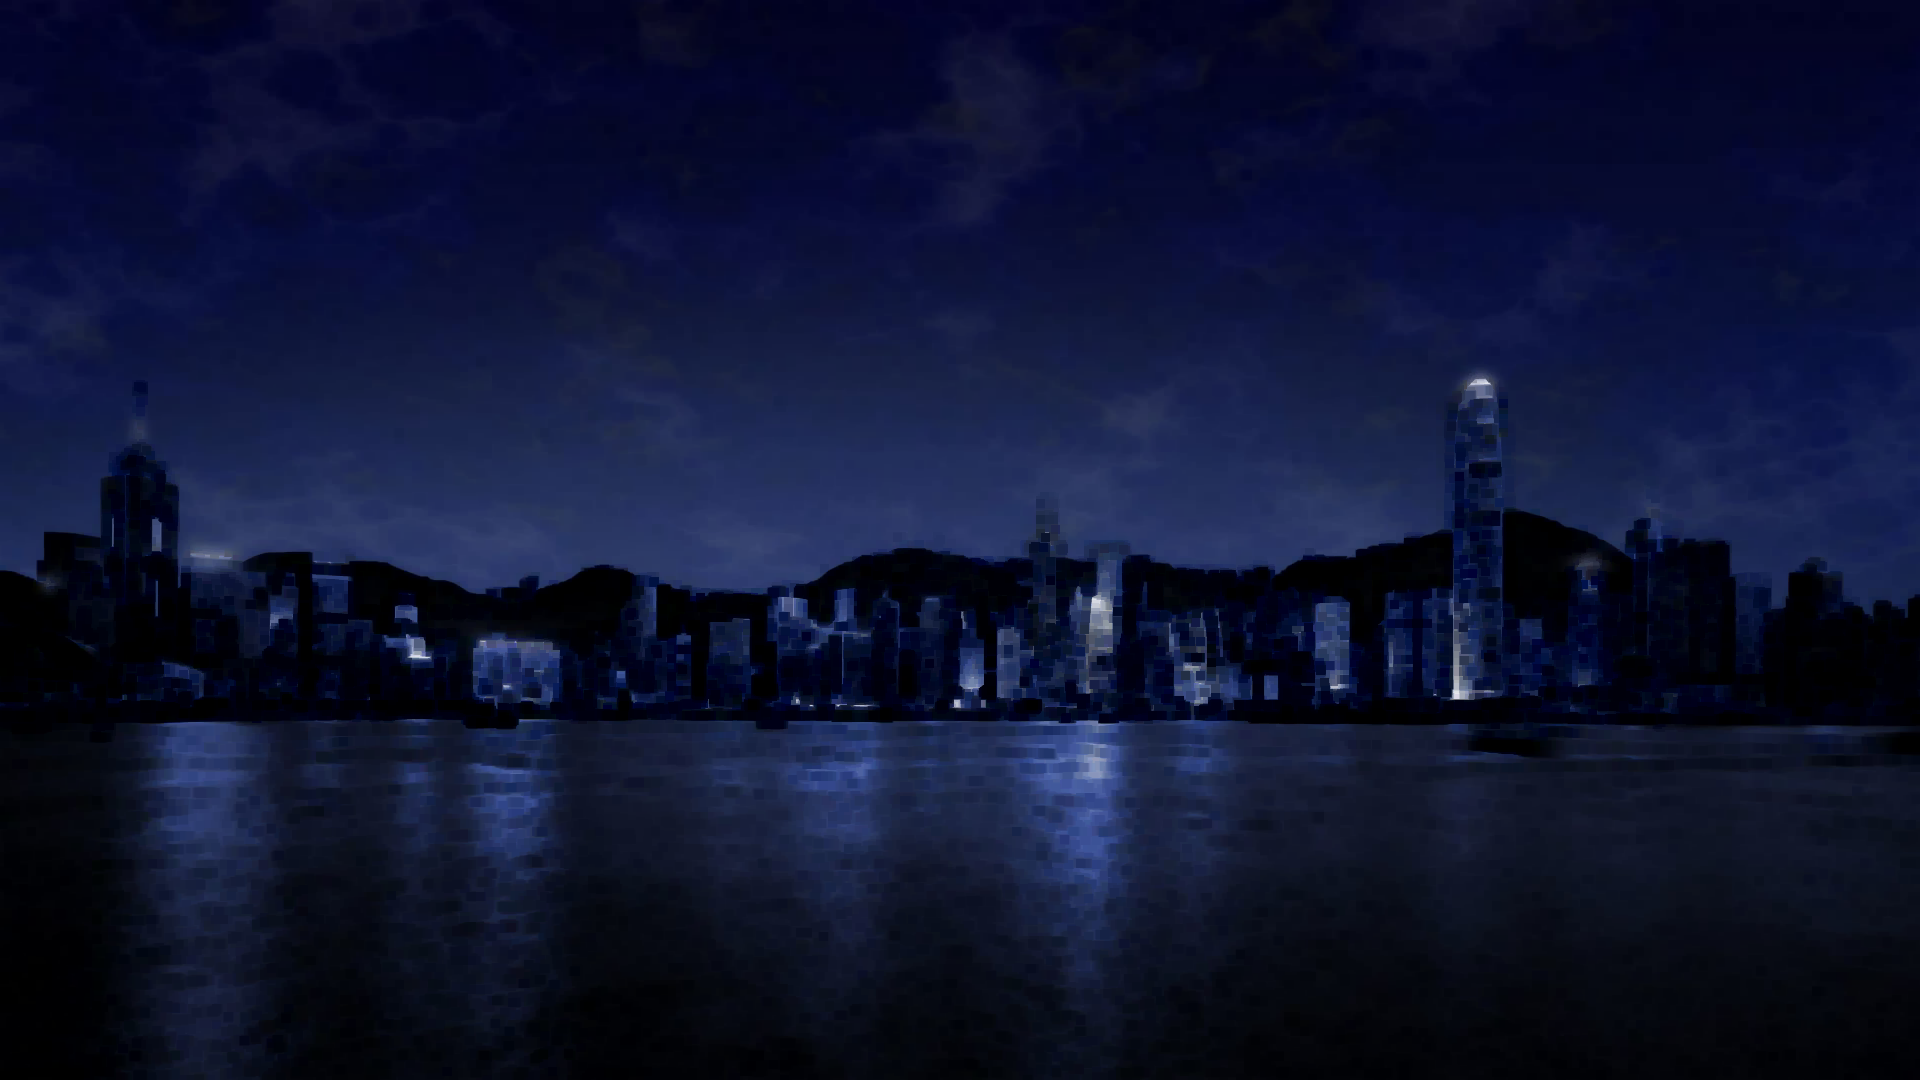
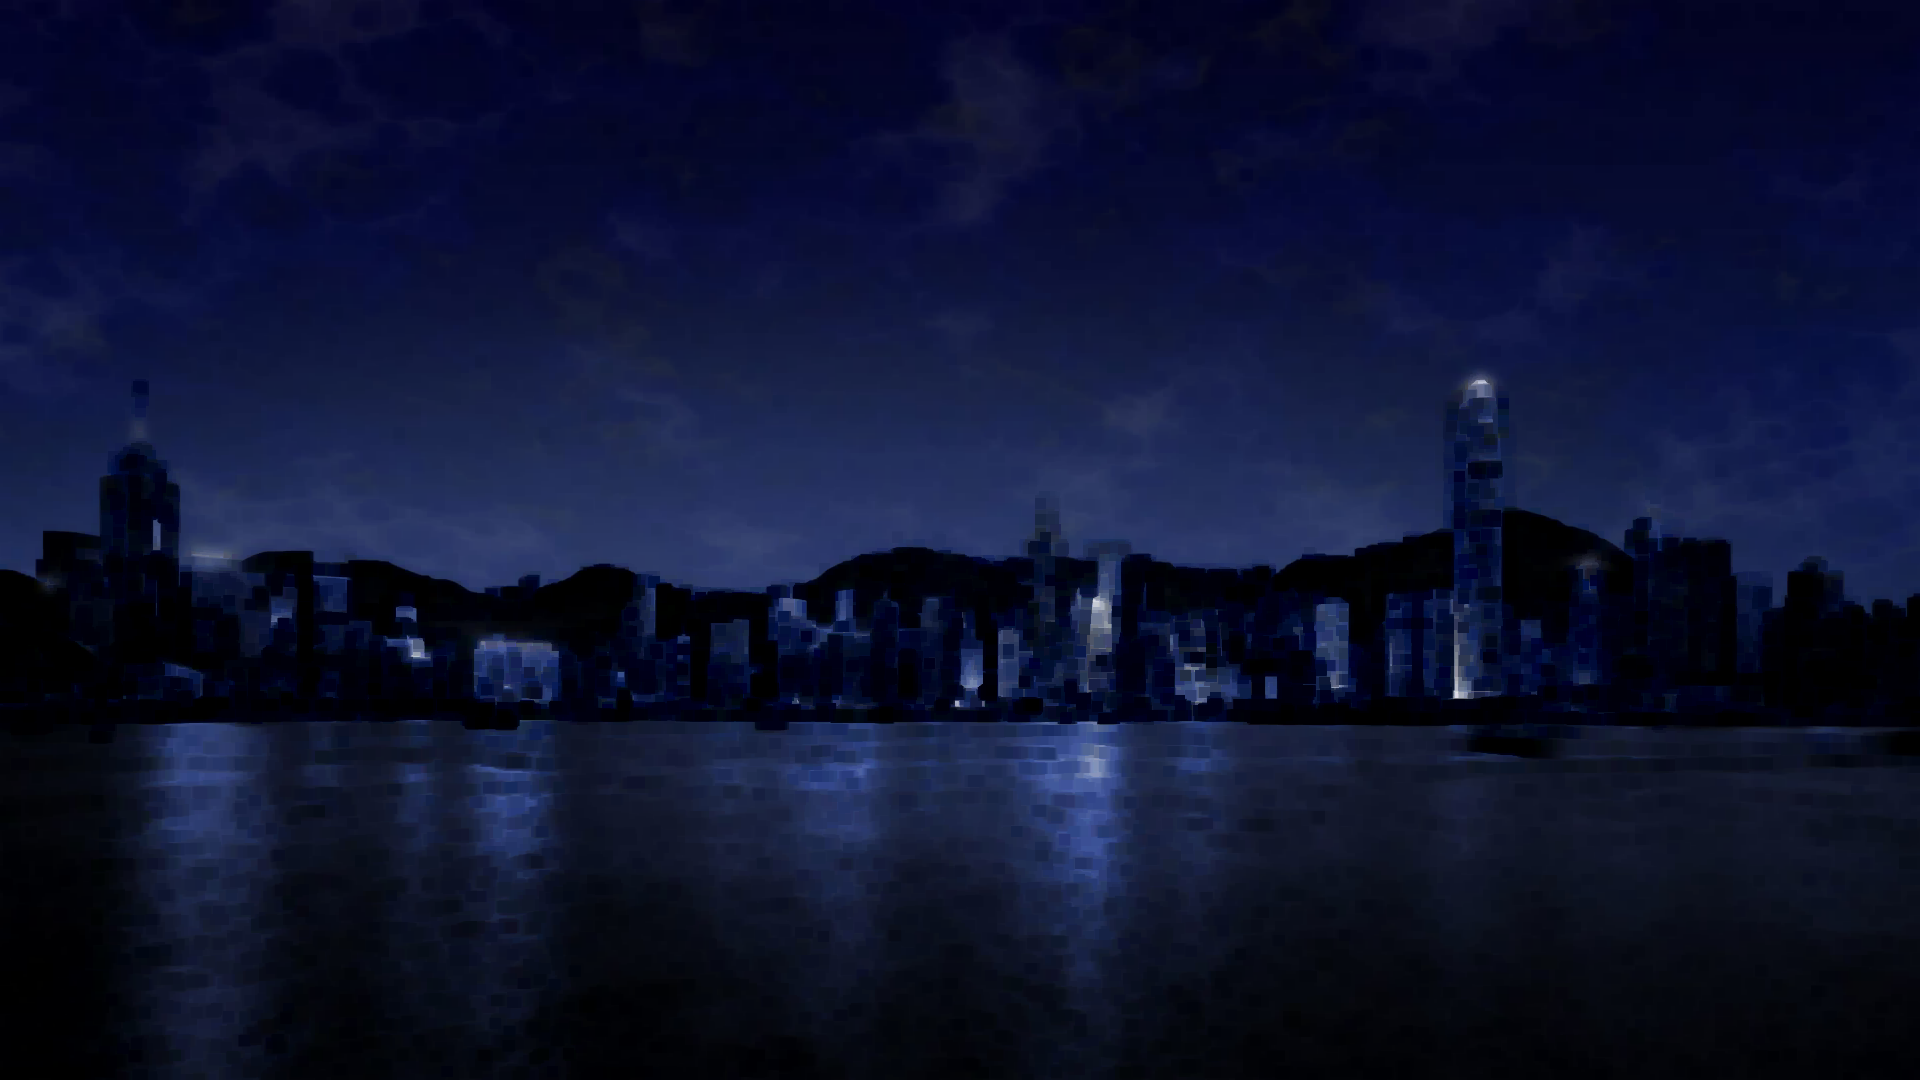
final lab09

diff --git a/lab9/ImageProcessor.cs b/lab9/ImageProcessor.cs
@@ -16,23 +16,24 @@ namespace lab9
         /* -------------------------------------------------------------------------- */
         public void toGreyscale(string path)
         {
-            using (Image<Rgb24> image = Image.Load<Rgb24>(path))
-            {
-                Image<Rgb24> clone = image.Clone();
+            System.Console.WriteLine("Converting to greyscale...");
+            using Image<Rgb24> image = Image.Load<Rgb24>(path);
 
-                // Using (R + G + B) / 3
-                for (int a = 0; a < image.Width; a++)
-                    for (int b = 0; b < image.Height; b++)
-                    {
-                        // Get the pixel color
-                        byte R = image[a, b].R;
-                        byte G = image[a, b].G;
-                        byte B = image[a, b].B;
+            Image<Rgb24> clone = image.Clone();
 
-                        clone[a, b] = new Rgb24((byte)((R + G + B) / 3), (byte)((R + G + B) / 3), (byte)((R + G + B) / 3));
-                    }
-                clone.Save("output/greyscale.png");
-            }
+            // Using (R + G + B) / 3
+            for (int a = 0; a < image.Width; a++)
+                for (int b = 0; b < image.Height; b++)
+                {
+                    // Get the pixel color
+                    byte R = image[a, b].R;
+                    byte G = image[a, b].G;
+                    byte B = image[a, b].B;
+
+                    clone[a, b] = new Rgb24((byte)((R + G + B) / 3), (byte)((R + G + B) / 3), (byte)((R + G + B) / 3));
+                }
+            clone.Save("output/greyscale.png");
+
         }
 
         /* -------------------------------------------------------------------------- */
@@ -40,39 +41,34 @@ namespace lab9
         /* -------------------------------------------------------------------------- */
         public void Transform(string path, int frame_width, int frame_hight)
         {
+            System.Console.WriteLine("Transforming...");
             if (frame_width % 2 == 0 || frame_hight % 2 == 0)
                 throw new ArgumentException("Width and height must be odd numbers.");
 
             // Load the image as Image<Rgba32>
             using (var image = Image.Load<Rgba32>(path))
             {
-                using (var resultMedian = new Image<Rgba32>(image.Width, image.Height))
+                using var resultMedian = new Image<Rgba32>(image.Width, image.Height);
+                using var resultMax = new Image<Rgba32>(image.Width, image.Height);
+                using var resultMin = new Image<Rgba32>(image.Width, image.Height);
+                using var resultAvg = new Image<Rgba32>(image.Width, image.Height);
+
+                // Parallel for loop
+                Parallel.For(0, image.Width, x =>
                 {
-                    using (var resultMax = new Image<Rgba32>(image.Width, image.Height))
+                    Parallel.For(0, image.Height, y =>
                     {
-                        using (var resultMin = new Image<Rgba32>(image.Width, image.Height))
-                        {
-                            using (var resultAvg = new Image<Rgba32>(image.Width, image.Height))
-                            {
-                                // Parallel for loop
-                                Parallel.For(0, image.Width, x =>
-                                {
-                                    for (int y = 0; y < image.Height; y++)
-                                    {
-                                        resultMedian[x, y] = medianPixel(image, x, y, frame_width, frame_hight);
-                                        resultMax[x, y] = maxPixel(image, x, y, frame_width, frame_hight);
-                                        resultMin[x, y] = minPixel(image, x, y, frame_width, frame_hight);
-                                        resultAvg[x, y] = AvgPixel(image, x, y, frame_width, frame_hight);
-                                    }
-                                });
-                                resultAvg.Save("output/avg.png");
-                            }
-                            resultMin.Save("output/min.png");
-                        }
-                        resultMax.Save("output/max.png");
-                    }
-                    resultMedian.Save("output/median.png");
-                }
+                        resultMedian[x, y] = medianPixel(image, x, y, frame_width, frame_hight);
+                        resultMax[x, y] = maxPixel(image, x, y, frame_width, frame_hight);
+                        resultMin[x, y] = minPixel(image, x, y, frame_width, frame_hight);
+                        resultAvg[x, y] = avgPixel(image, x, y, frame_width, frame_hight);
+                    });
+                });
+                resultAvg.Save("output/avg.png");
+                resultMin.Save("output/min.png");
+                resultMax.Save("output/max.png");
+                resultMedian.Save("output/median.png");
+
 
 
             }
@@ -165,7 +161,7 @@ namespace lab9
         }
 
         /* ------------------------------- Avg Filter ------------------------------- */
-        private Rgba32 AvgPixel(Image<Rgba32> image, int x, int y, int frame_width, int frame_hight)
+        private Rgba32 avgPixel(Image<Rgba32> image, int x, int y, int frame_width, int frame_hight)
         {
             List<int> R = new List<int>();
             List<int> G = new List<int>();
@@ -194,25 +190,25 @@ namespace lab9
         /* -------------------------------------------------------------------------- */
         /*                             Convolution filter                             */
         /* -------------------------------------------------------------------------- */
-        public void convolutionTransform (string path, int [,] kernel)
+        public void convolutionTransform(string path, int[,] kernel)
         {
+            System.Console.WriteLine("Convolution transform");
             // Load the image
-            using (var image = Image.Load<Rgba32>(path))
+            using var image = Image.Load<Rgba32>(path);
+
+            // Create a new image
+            using (var result = new Image<Rgba32>(image.Width, image.Height))
             {
-                // Create a new image
-                using (var result = new Image<Rgba32>(image.Width, image.Height))
+                for (int x = 0; x < image.Width; x++)
                 {
-                    // Parallel for loop
-                    Parallel.For(0, image.Width, x =>
+                    for (int y = 0; y < image.Height; y++)
                     {
-                        for (int y = 0; y < image.Height; y++)
-                        {
-                            result[x, y] = convolutionPixel(image, x, y, kernel);
-                        }
-                    });
-                    result.Save("output/convolution.png");
+                        result[x, y] = convolutionPixel(image, x, y, kernel);
+                    }
                 }
+                result.Save("output/convolution.png");
             }
+
         }
         private Rgba32 convolutionPixel(Image<Rgba32> image, int x, int y, int[,] kernel)
         {
@@ -224,7 +220,7 @@ namespace lab9
             for (int a = x - kernel.GetLength(0) / 2; a <= x + kernel.GetLength(0) / 2; a++)
                 for (int b = y - kernel.GetLength(1) / 2; b <= y + kernel.GetLength(1) / 2; b++)
                 {
-                    // Check if the pixel is in the image
+                    // Matrix operations
                     if (a >= 0 && a < image.Width && b >= 0 && b < image.Height)
                     {
                         R += image[a, b].R * kernel[a - x + kernel.GetLength(0) / 2, b - y + kernel.GetLength(1) / 2];

diff --git a/lab9/Program.cs b/lab9/Program.cs
@@ -5,8 +5,10 @@ class Program
     {
         ImageProcessor processor = new ImageProcessor();
         processor.toGreyscale("test.png");
-        processor.Transform("test.png", 9, 9);
-        processor.convolutionTransform("test.png", new int[,] { { 1, 1, 1 }, { 1, 1, 1 }, { 1, 1, 1 } });
+        processor.Transform("test.png", 11, 11);
+        processor.convolutionTransform("test.png", new int[,] { { -1, 0, 1 }, { -1, 0, 1 }, { -1, 0, 1 } });
+        // processor.convolutionTransform("test.png", new int[,] { { 1, 1, 1 }, { 0, 0, 0 }, { -1, -1, -1 } });
+
 
     }
 
